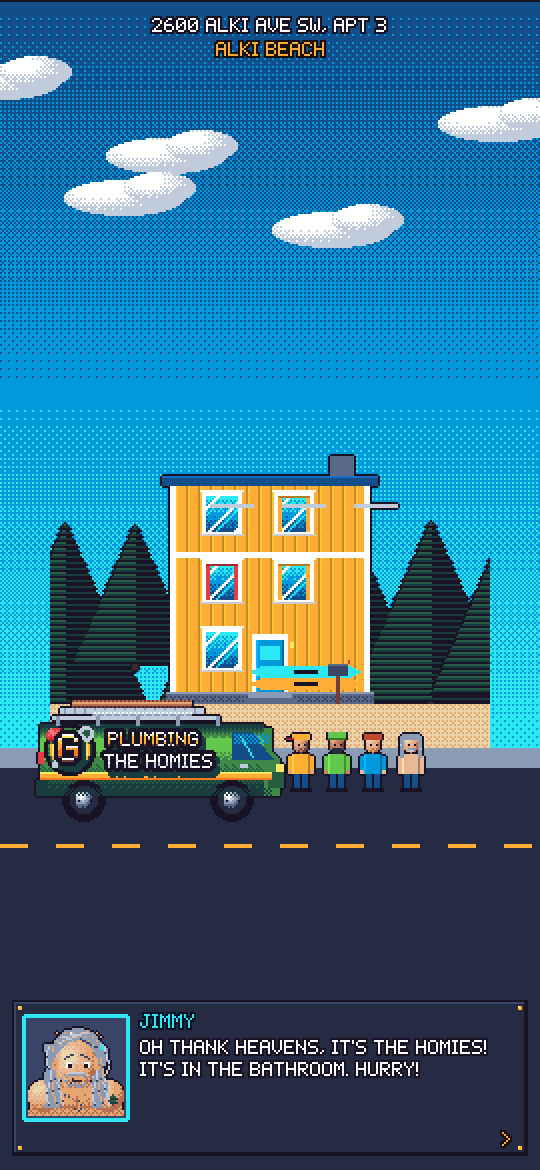
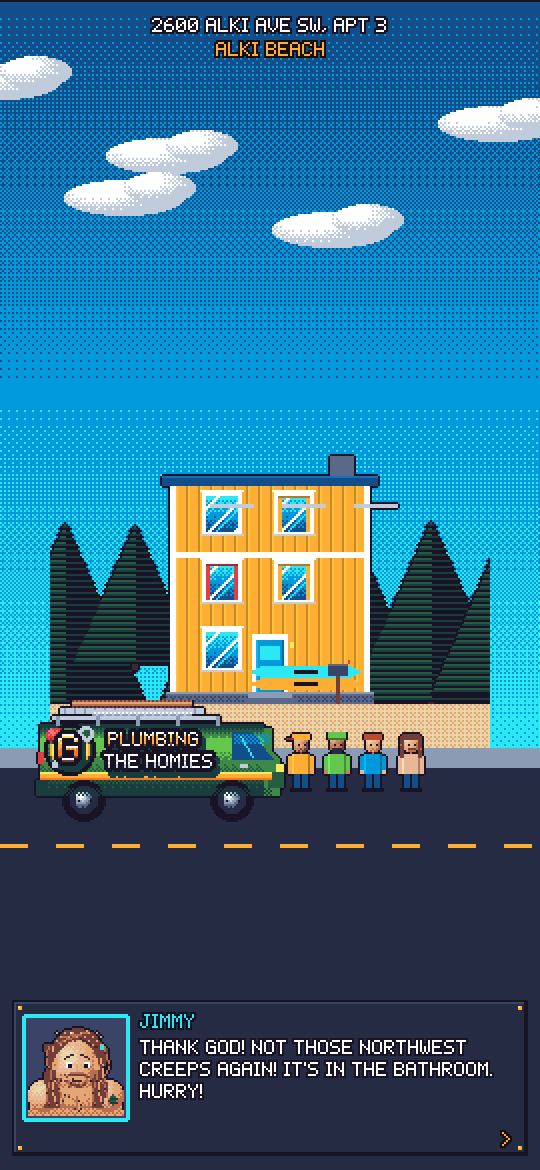
Jimmy's hair: brown with sun-bleached streaks (not grey, apparently)

Changed region(s): [[0.237, 0.8615, 0.9185, 0.9538], [0.0593, 0.8615, 0.2074, 0.9538], [0.7407, 0.6154, 0.8, 0.6462]]

diff --git a/src/data/jobs.js b/src/data/jobs.js
@@ -252,7 +252,7 @@ export const JOBS = [
 
   // ----------------------------------------------------------------- ALKI BEACH (bonus)
   { title: 'HAIR-CLOGGED BATHROOM SINK', scene: 'sink', variant: 'alki', address: '2600 ALKI AVE SW, APT 3', bonus: true,
-    who: 'JIMMY', look: { skin: 'fair', hair: 'salt', style: 'wavy', beard: 'scruff', shirt: '#e43b44', jacked: true, shirtless: true },
+    who: 'JIMMY', look: { skin: 'fair', hair: 'beach', style: 'wavy', beard: 'scruff', shirt: '#e43b44', jacked: true, shirtless: true },
     house: { style: 'townhouse', body: '#feae34', trim: '#ffffff', roof: '#124e89', door: '#0099db', extra: 'alki' },
     call: "BRO. MY SINK WON'T DRAIN. I RINSE MY HAIR IN IT AFTER KAYAKING. ALSO BOY - MY SQUIRREL - MIGHT'VE STASHED AN ACORN IN THERE. HE DOES THAT.", decoys: ['drano', 'beer', 'gum'],
     steps: [

diff --git a/src/art/people.js b/src/art/people.js
@@ -8,7 +8,7 @@ const SKIN = {
 };
 const HAIR = {
   brown: [C.umber, C.brown, C.clay], black: [C.ink, C.night, C.storm], blond: [C.flame, C.gold, C.yellow], ginger: [C.brown, C.rust, C.orange],
-  white: [C.steel, C.silver, C.white], grey: [C.slate, C.steel, C.silver], salt: [C.storm, C.steel, C.silver], purple: [C.plum, C.mauve, C.pink], pink: [C.crimson, C.hot, C.pink],
+  white: [C.steel, C.silver, C.white], grey: [C.slate, C.steel, C.silver], salt: [C.storm, C.steel, C.silver], beach: [C.umber, C.brown, C.clay], purple: [C.plum, C.mauve, C.pink], pink: [C.crimson, C.hot, C.pink],
 };
 const shade = (hex, k) => { const n = parseInt(hex.slice(1), 16); const f = c => Math.max(0, Math.min(255, Math.round(c * k))); return '#' + [n >> 16, (n >> 8) & 255, n & 255].map(f).map(v => v.toString(16).padStart(2, '0')).join(''); };
 
